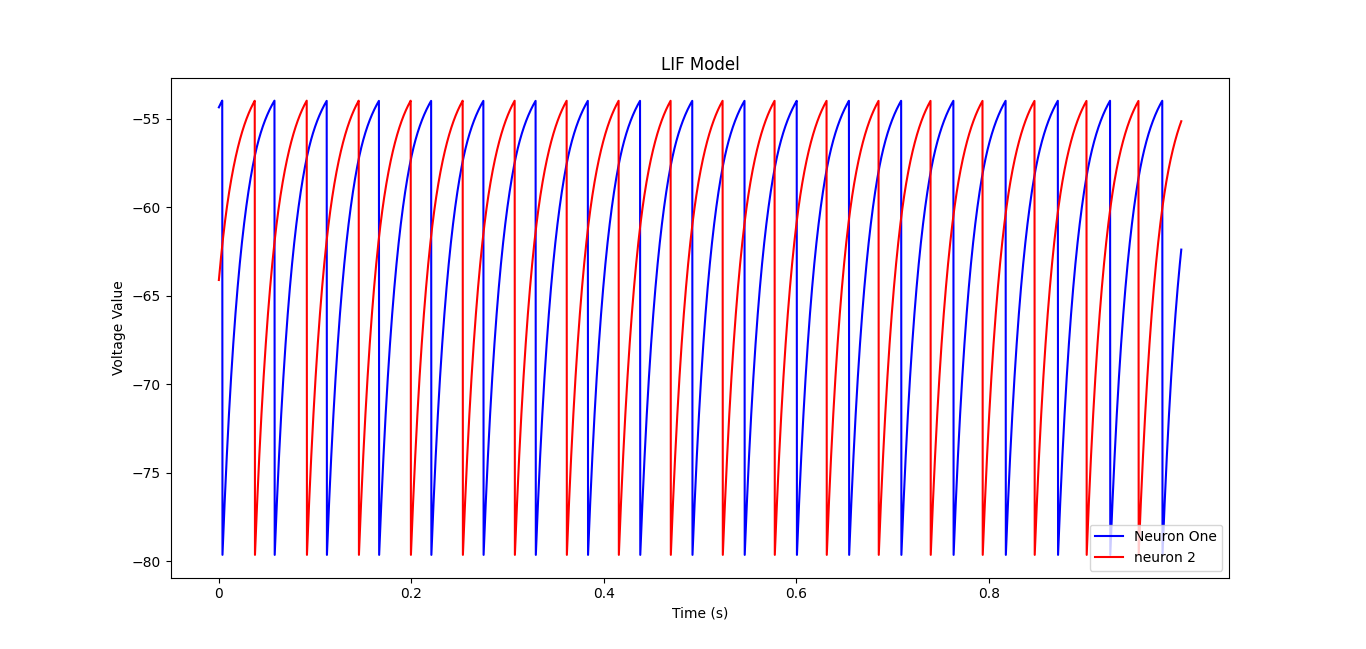
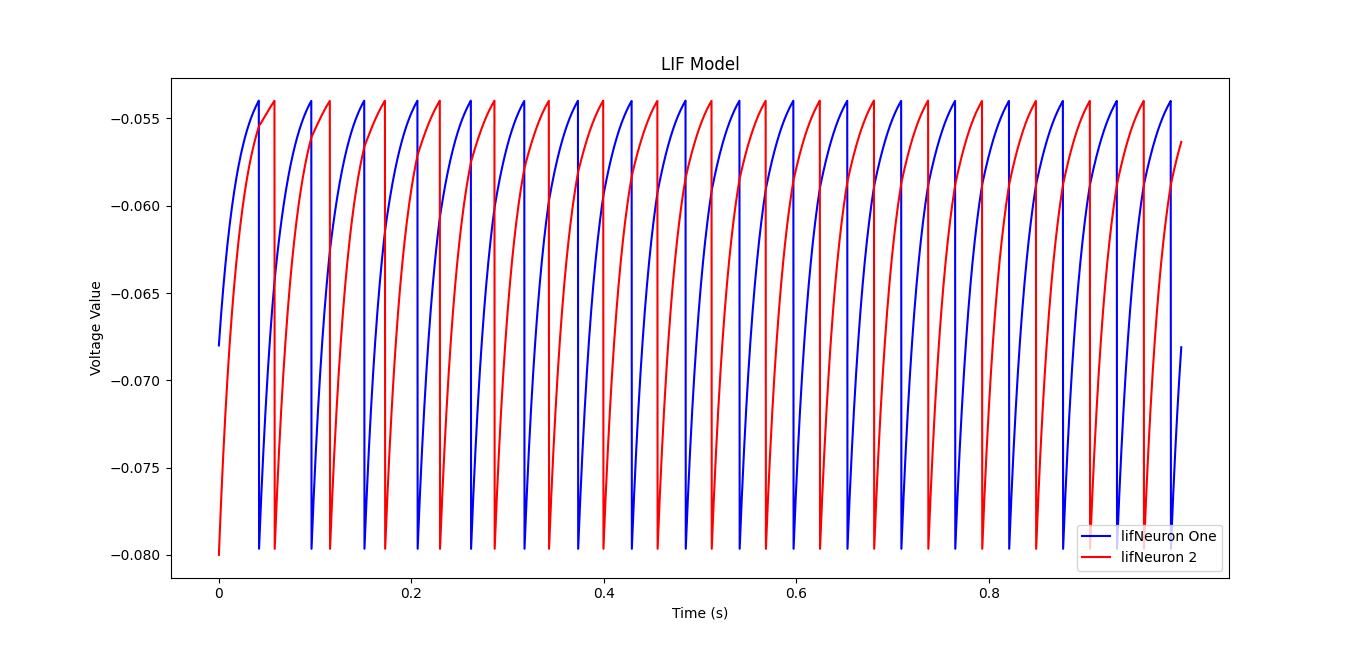
STDP implemented

diff --git a/Main.py b/Main.py
@@ -1,3 +1,6 @@
+#!/usr/bin/python
+
+import sys, getopt
 import random as rnd
 import numpy as np
 from matplotlib import pyplot as plt
@@ -41,7 +44,9 @@ class LIFNeuron(baseNeuron):
             self.Rm_Ie = self.Rm * self.Ie
 
         self.voltage_History = np.array([self.volt], float)    #Create array with first ele being the starting Voltage
-        self.synapse_History = np.array([], float)    #Create array with first ele being the starting Voltage
+
+        self.last_Spike_t = 0
+
         self.synapseInList = np.array([])
         self.synapseOutList = np.array([])
 
@@ -49,12 +54,11 @@ class LIFNeuron(baseNeuron):
     # Performill one timestep update to the LIFNeuron and saves the voltage in the history
     def update(self):
         synapse_input = self.calc_syn_input()
-        self.synapse_History = np.append(self.synapse_History, synapse_input)
 
         if self.volt >= self.volt_Thesh:   # If we spike, reset
             self.volt = self.volt_reset
+            self.last_Spike_t = currentTime
             self.spike_Synapses()
-
 
         # dV = ((El - V) + RmIe)*dt/tau
         diff = ((self.leaky - self.volt) + (self.Rm_Ie + synapse_input)) *  timestep/self.tau
@@ -79,6 +83,10 @@ class LIFNeuron(baseNeuron):
     def spike_Synapses(self):
         for synapse in self.synapseOutList:
             synapse.spike()
+
+        if self.synapseInList[0].__class__.__name__ == "STDPSynapse":
+            for synapse in self.synapseInList:
+                synapse.STDP_Update()
 
 class BaseSynapse(ABC):
     def __init__(self):
@@ -136,7 +144,9 @@ class poissonSynapse(BaseSynapse):
     def update(self):
         # Now we check for a spike from the poisson 'Neuron'
         chance = rnd.random()
-        if (chance < timestep*self.Firerate): self.spike()
+        if (chance < timestep*self.Firerate):
+            self.spike()
+            self.last_spike_recieved_t = currentTime
 
         self.s = self.s - (self.s * timestep) / self.tauS
         self.RmIs = self.RmGs * (self.Es - self.post_LIFNeuron.volt) * self.s
@@ -144,6 +154,43 @@ class poissonSynapse(BaseSynapse):
 
     def spike(self):
         self.s += self.delta_s
+
+class STDPSynapse(poissonSynapse):
+    def __init__(self, aPlus, aMinus, tauPlus, tauMinus, sV):
+
+        self.aPlus = aPlus * nano
+        self.aMinus = aMinus * nano
+        self.tauPlus = tauPlus * mill
+        self.tauMinus = tauMinus * mill
+
+        self.last_spike_recieved_t = 0
+
+        poissonSynapse.__init__(self, sV[0], sV[1], sV[2], sV[3], sV[4], sV[5])
+
+        self.Gi_history = np.array([self.Gi])
+
+    #Slightly updated spike to now recordthe spike time and change according to STDP
+    def spike(self):
+        self.s += self.delta_s
+        self.last_spike_recieved_t = currentTime
+        self.STDP_Update()
+
+    # Calculate the spike time differance and update the Gi accordingly
+    def STDP_Update(self):
+        delta_t =  self.post_LIFNeuron.last_Spike_t - self.last_spike_recieved_t
+        if delta_t > 0:
+            self.Gi = self.Gi + (self.aPlus * math.exp(-abs(delta_t)/self.tauPlus))
+        elif delta_t <= 0:
+            self.Gi = self.Gi + (-self.aMinus * math.exp(-abs(delta_t)/self.tauMinus))
+
+        # Limit Gi in case it gets too large or negative from update
+        if self.Gi > 4 * nano:
+            self.Gi = 4 * nano
+        elif self.Gi < 0:
+            self.Gi = 0
+
+        self.Gi_history = np.append(self.Gi_history, self.Gi)
+
 
 
 # -----------------------------------------------------------------------------
@@ -215,7 +262,6 @@ def QuestionTwo(Es):
 
 
     fig, ax = plt.subplots(1,1)
-    print(lifNeuron1.diff_History[:20])
 
     ax.plot(lifNeuron1.voltage_History, color = 'blue')
     ax.plot(lifNeuron2.voltage_History, color = 'red')
@@ -246,8 +292,8 @@ def PartB_QuestionOne():
         lifNeuron.update()
         for syn in PSynapses:
             syn.update()
+        currentTime = t
 
-    print(lifNeuron.synapse_History[:50])
     fig, ax = plt.subplots(1,1)
 
     ax.plot(lifNeuron.voltage_History, color = 'blue')
@@ -262,15 +308,79 @@ def PartB_QuestionOne():
     plt.show()
 
 
+# -----------------------------------------------------------------------------
+#                           Question 2
+
+def PartB_QuestionTwo(stdp):
+    global currentTime
+    #                    (tau,volt, volt_reset, leaky, volt_Thesh, RmIe)
+    lifNeuron = LIFNeuron(10 ,-65 ,-65        ,-65   ,-50        ,Rm =100, Ie = 0)
+
+    synapseVariables = [lifNeuron     , 4 ,0.5     , 2   , 0 , 15]
+    #                              (post_LIFNeuron, Gi, Delta_s, tauS, Es, Firerate):
+    if (not stdp):
+        PSynapses = [poissonSynapse(lifNeuron     , 4 ,0.5     , 2   , 0 , 15 ) for i  in range(40)]
+    else:
+        #                       (aPlus, aMinus, tauPlus, tauMinus, *sV)
+        PSynapses = [STDPSynapse(0.2, 0.25, 20, 20,synapseVariables) for i  in range(40)]
+
+    for t in timestamps:
+        lifNeuron.update()
+        for syn in PSynapses:
+            syn.update()
+        currentTime = t
+
+
+    fig, ax = plt.subplots(1,1)
+
+    final_Gis = np.array([])
+    for syn in PSynapses:
+        final_Gis = np.append(final_Gis, syn.Gi_history[-1])
+
+    ax.hist(final_Gis)
+
+
+    #ax.plot(lifNeuron.voltage_History, color = 'blue')
+    #ax.hlines(lifNeuron.volt_Thesh, 0,4000)
+
+    #plt.xticks(np.arange(0,len(lifNeuron.voltage_History), step=len(lifNeuron.voltage_History)/5), ["0", "0.2", "0.4", "0.6", "0.8", "1"])
+    plt.xlabel("Gi Values (nA)")
+    plt.ylabel("# Of Synapses")
+
+    plt.title("Part 2 Q2")
+
+    plt.show()
+
+
 mill = 0.001
-mega = 1000
+mega = 1000000
 nano = 0.000000001
 timestep = 0.25 * mill
 
-duration = 1
-timestamps = np.arange(0, duration, timestep)
+timestamps = []
+currentTime = 0
 
-#QuestionOne()
-#QuestionTwo(0)
-#QuestionTwo(-80)
-PartB_QuestionOne()
+def main(argv):
+    STDP = False
+    duration = 1
+    try:
+      opts, args = getopt.getopt(argv,"sd:",["stdp"])
+    except getopt.GetoptError:
+      print ('main.py [-s, -d]')
+      sys.exit(2)
+    for opt, arg in opts:
+      if opt in ("-s", "--stdp"):
+          STDP = True
+      elif opt == '-d':
+          duration = int(arg)
+
+    global timestamps
+    timestamps = np.arange(0, duration, timestep)
+    #QuestionOne()
+    #QuestionTwo(0)
+    #QuestionTwo(-80)
+    #PartB_QuestionOne()
+    PartB_QuestionTwo(STDP)
+
+if __name__ == "__main__":
+   main(sys.argv[1:])
